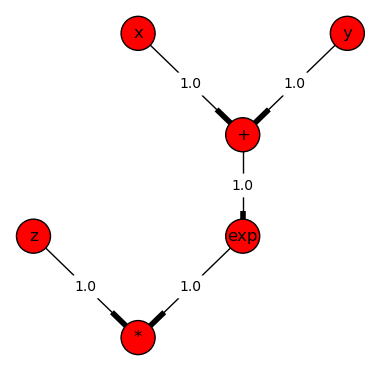
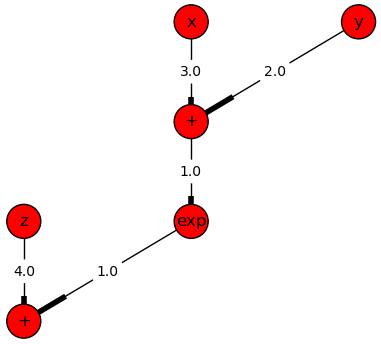
Polishing the README

diff --git a/README.md b/README.md
@@ -25,9 +25,7 @@ decomposing the large model into smaller problems.
   <img src ="pics/HeatingSystem.png?raw=true" alt="modular technical system"/>
 </p>
 
-<p style="background: red; color: white;">
-THIS PROJECT IS A WORK IN PROGRESS.
-</p>
+**THIS PROJECT IS A WORK IN PROGRESS.**
 
 Input
 -----
@@ -43,9 +41,7 @@ SymPy. Only nonlinear systems of equations are considered at the moment
 For example, the following AMPL code
 ```
 var x; var y; var z;
-
-equation:
-  exp(x+y)*z = 1;
+equation: exp(3*x+2*y)+4*z = 1;
 ```
 yields the directed acyclic graph below.
 <p align="center">
@@ -57,7 +53,7 @@ In any case, I will keep the AMPL interface too.
 [Modelica](http://en.wikipedia.org/wiki/Modelica) is definitely on the agenda, 
 accessed through the 
 [functional mock-up interface](http://en.wikipedia.org/wiki/Functional_Mock-up_Interface).
-This project is not aiming at creating yet another modeling environment; the 
+This project is not aiming at creating yet another modeling environment: The 
 goal is to plug the tools of this project into well-established modeling 
 systems.
 
@@ -67,7 +63,7 @@ The modules of the technical systems partition the
 [Jacobian](http://en.wikipedia.org/wiki/Jacobian_matrix_and_determinant) 
 into blocks in a fairly natural way. This natural block structure plays an
 important role in [structure-driven algorithms](README.md#structure-driven):
-Computing the optimal partitioning and ordering of the smaller systems is 
+Computing the optimal partitioning and ordering of the smaller subproblems is 
 NP-hard in the general case; one must resort to heuristics in practice. 
 Independent results show that the heuristic which exploits the natural block 
 structure often yields good quality partitioning and ordering. 
@@ -75,7 +71,7 @@ structure often yields good quality partitioning and ordering.
 The current way to pass the natural blocks is rather hackish: Suffixes are 
 used, see *Defining and using suffixes* on page 302 in the 
 [AMPL book](http://ampl.github.io/ampl-book.pdf). In the future, component-based
-modeling tools will allow an easy programmatic access to the natural block 
+modeling tools will hopefully allow programmatic access to the natural block 
 structure.
 
 Minimum degree ordering
@@ -86,12 +82,12 @@ natural block structure.
 ![ordering](pics/ordering.png?raw=true)
 
 My primary interest is chemical process modeling. The Jacobian of these models 
-are very sparse but *highly* unsymmetric, numerically indefinite, not diagonally
-dominant and possibly ill-conditioned. There are many packages for the symmetric
-and mildly unsymmetric case. (In the mildly unsymmetric case, it is acceptable 
-to introduce artificial fill-in to make the sparsity pattern symmetric and 
-then use an algorithm developed for the symmetric case.) 
-I have only found 
+are very sparse but *highly* unsymmetric, numerically indefinite, not diagonally 
+dominant and possibly ill-conditioned. There are many packages for the symmetric 
+and slightly unsymmetric case. (In the slightly unsymmetric case, it is 
+acceptable to introduce artificial fill-in to make the sparsity pattern 
+symmetric and then use a sparse matrix ordering algorithm, developed for the 
+symmetric case.) I have only found 
 [MC33 from the Harwell Subroutine Library](http://www.hsl.rl.ac.uk/catalogue/mc33.html)
 that is applicable in the highly unsymmetric case. Since MC33 is based on a 
 heuristic, it unfortunately fails on those chemical process models that are of 
